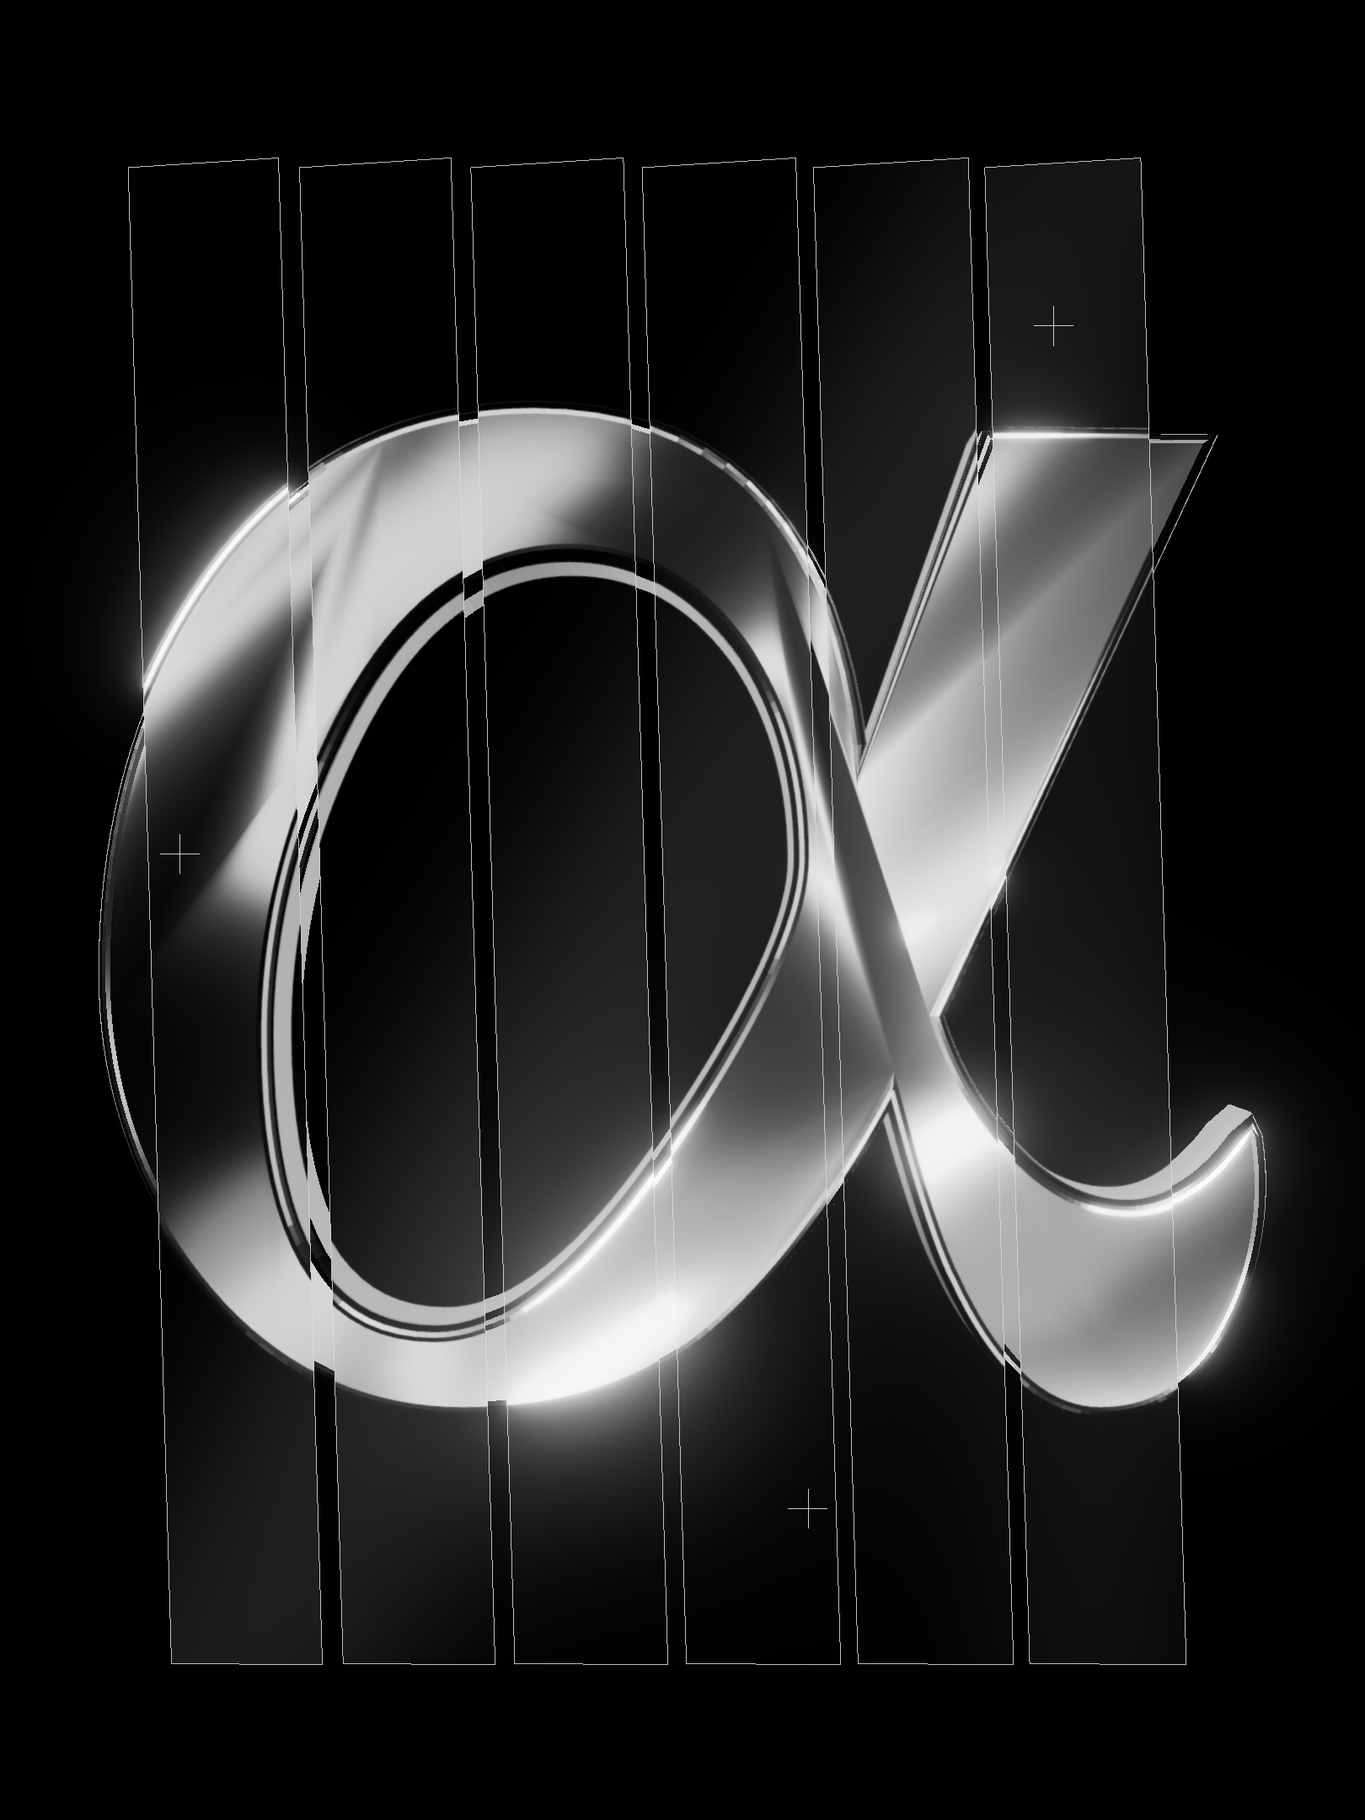
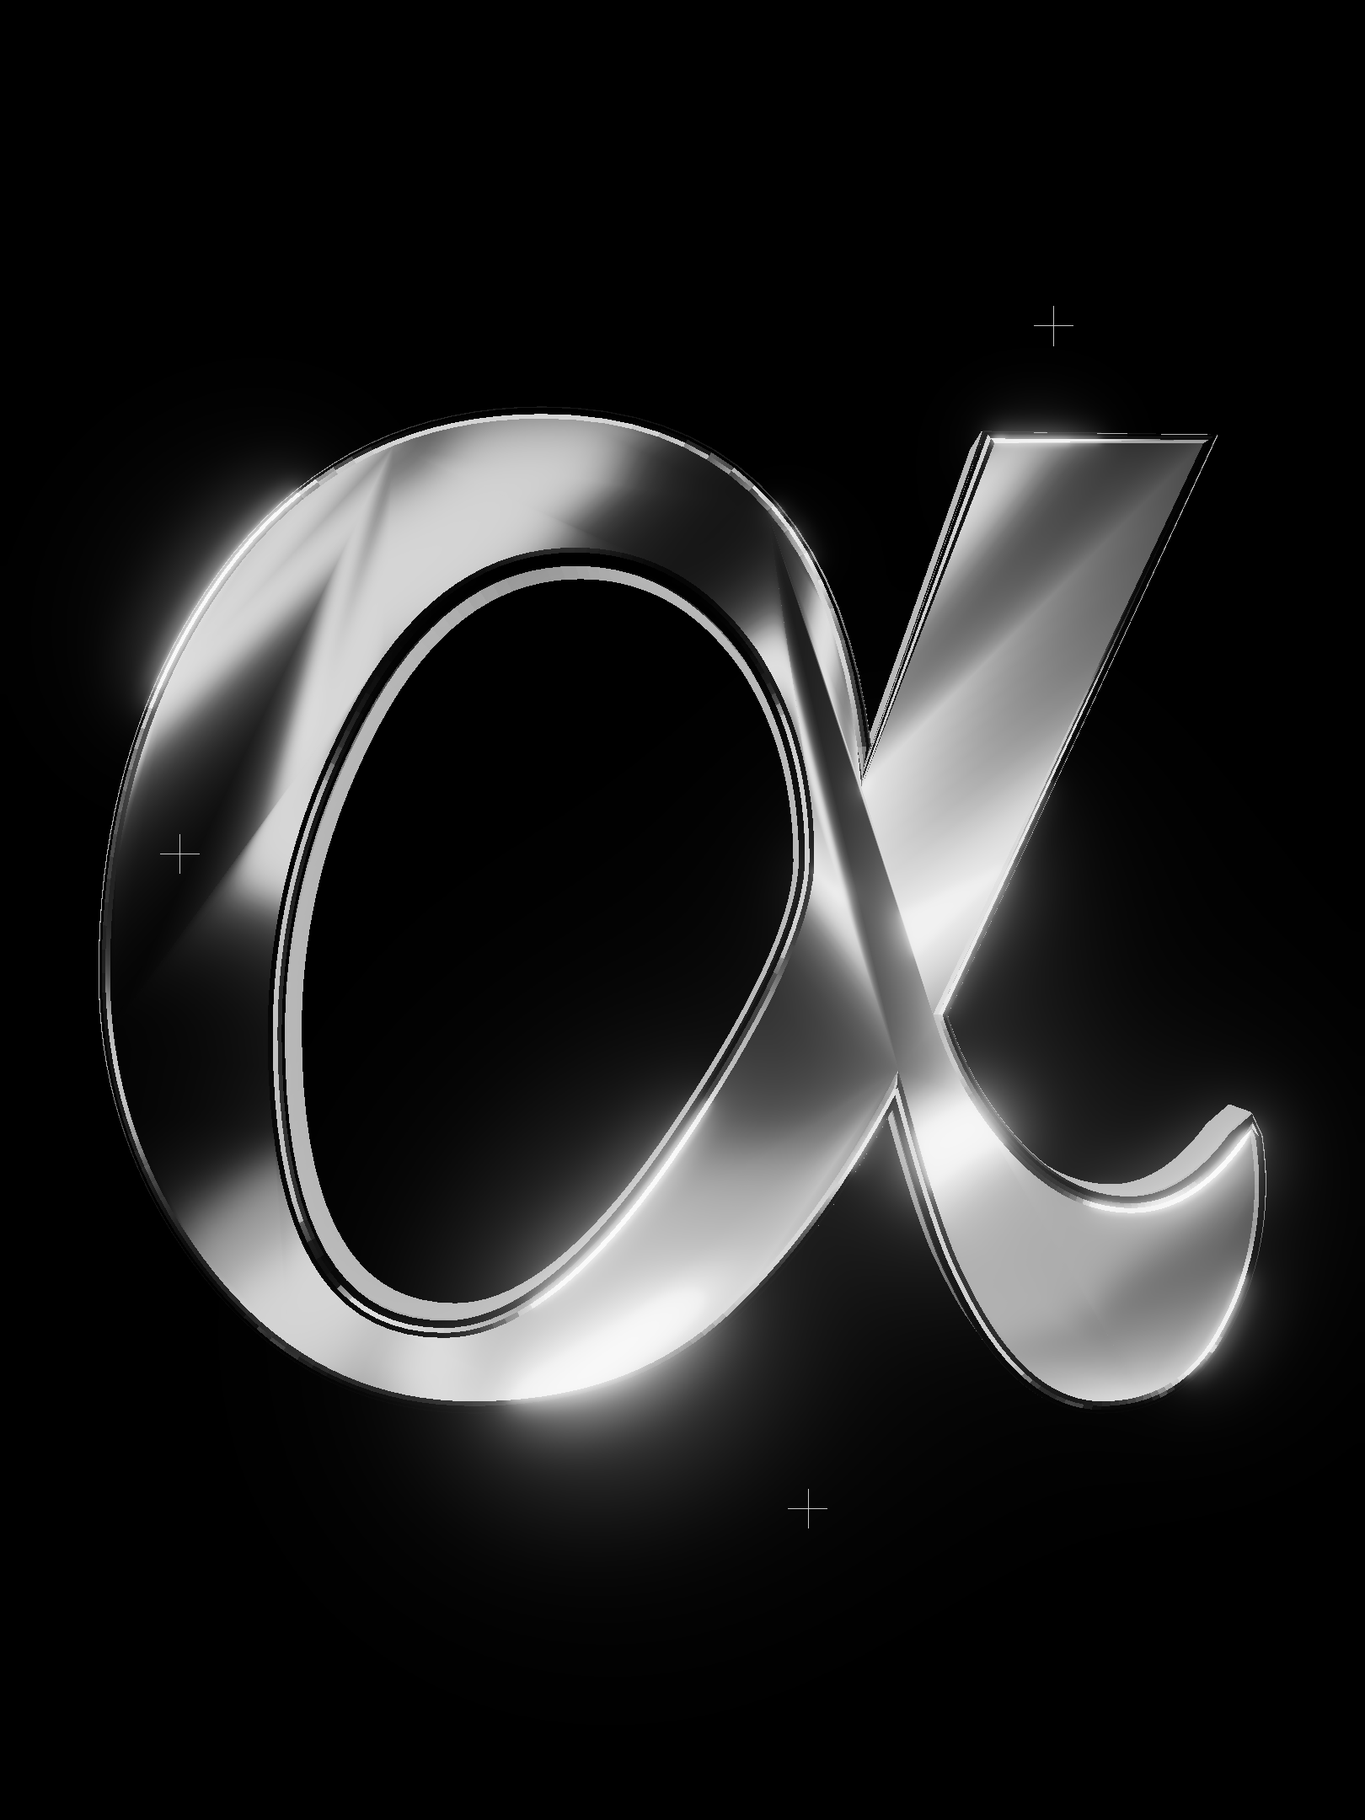
perf(stage): α only — drop the glass slats; lighter load, smoother motion
- the six glass slats over the α are removed from the stage (all stations); the hero's
  first-paint still is re-rendered from the scene without them
- three.js is imported through a named re-export module so the unused parts are
  tree-shaken: 753 KB → 565 KB (191 KB → 141 KB gzipped)
- the stage stops drawing once the camera has settled and no points are swirling (the hero
  poster view), instead of repainting an identical frame every tick
- adaptive resolution: if frames run long while scrolling, pixel density steps down
  (never the motion)
- no canvas MSAA on desktop: the scene is drawn into the bloom composer's targets, so it
  only cost memory
- the stage is built in idle time just after the hero entrance rather than on the first
  touch, so the work doesn't land on top of the first scroll
- all CSS inlined: no render-blocking stylesheet requests

Phones keep every animation (loader, hero entrance, reveals, camera tour).

diff --git a/src/components/Stage/island.ts b/src/components/Stage/island.ts
@@ -2,7 +2,7 @@ import type { BufferGeometry, Material } from 'three';
 import { gsap, ScrollTrigger, isTouch } from '@/lib/motion/core';
 import { ALPHA_PATH, ALPHA_VIEWBOX } from '@/assets/alpha/alpha-path';
 import { poseAt, STATIONS, type Stop } from './stations';
-import { POSTER, fitFov, parsePath, slatLayout } from './poster-fit';
+import { POSTER, fitFov, parsePath } from './poster-fit';
 
 /**
  * True when WebGL2 is available on real graphics hardware. Software rasterisers (SwiftShader,
@@ -53,13 +53,17 @@ export default async function stage(root: HTMLElement): Promise<() => void> {
   const canvas = root.querySelector<HTMLCanvasElement>('[data-stage-canvas]')!;
   if (!hardwareWebGL2()) return () => {};
 
-  const THREE = await import('three');
+  const THREE = await import('./three-lite');
   await yieldToMain();
   const small = window.matchMedia('(max-width: 900px), (pointer: coarse)').matches;
 
-  // phones: no MSAA and ≤1.25× pixel density (fill rate is the bottleneck there), fewer points
-  const renderer = new THREE.WebGLRenderer({ canvas, antialias: !small, alpha: false, powerPreference: 'high-performance' });
-  renderer.setPixelRatio(Math.min(window.devicePixelRatio, small ? 1.25 : 1.75));
+  // No canvas MSAA anywhere: phones can't afford it (fill rate is the bottleneck there), and on
+  // desktop the scene is drawn into the bloom composer's own targets, so canvas MSAA only cost memory.
+  // Phones also get ≤1.25× pixel density and fewer points.
+  const renderer = new THREE.WebGLRenderer({ canvas, antialias: false, alpha: false, powerPreference: 'high-performance' });
+  let pixelRatio = Math.min(window.devicePixelRatio, small ? 1.25 : 1.75);
+  const minPixelRatio = Math.min(pixelRatio, small ? 1 : 1.25);
+  renderer.setPixelRatio(pixelRatio);
   renderer.setClearColor(0x000000, 1);
   renderer.toneMapping = THREE.ACESFilmicToneMapping;
   renderer.toneMappingExposure = 1.05;
@@ -143,33 +147,6 @@ export default async function stage(root: HTMLElement): Promise<() => void> {
   const posterH = ALPHA_H / POSTER.alphaH;
   const posterW = posterH * POSTER.aspect;
   const atDepth = (z: number) => (HERO_DIST - z) / (HERO_DIST - FRONT); // keep on-screen size equal to the poster's at z
-
-  // ---- six glass slats, exactly where the poster has them ----
-  const slats = new THREE.Group();
-  const slatZ = 0.75;
-  const k = atDepth(slatZ);
-  const slatGlass = small
-    ? new THREE.MeshBasicMaterial({ color: 0xffffff, transparent: true, opacity: 0.05, depthWrite: false, side: THREE.DoubleSide })
-    : new THREE.MeshPhysicalMaterial({ color: 0xffffff, metalness: 0, roughness: 0, transmission: 1, thickness: 0.55, ior: 1.3, specularIntensity: 0.6, transparent: true, side: THREE.DoubleSide, envMapIntensity: 0.35, polygonOffset: true, polygonOffsetFactor: 1, polygonOffsetUnits: 1 });
-  const slatLineMat = new THREE.LineBasicMaterial({ color: 0xffffff, transparent: true, opacity: 0.45 });
-  const slatGeos: BufferGeometry[] = [];
-  const glassMeshes: import('three').Mesh[] = [];
-  let glassVisible = true;
-  for (const L of slatLayout(ALPHA_H)) {
-    const g = new THREE.PlaneGeometry(L.w * k, L.h * k); // planes: no side walls to go dark at an angle
-    const e = new THREE.EdgesGeometry(g);
-    slatGeos.push(g, e);
-    const group = new THREE.Group();
-    const outline = new THREE.LineSegments(e, slatLineMat);
-    outline.position.z = 0.004; // nudge the outline off the glass (no z-fighting)
-    const pane = new THREE.Mesh(g, slatGlass);
-    glassMeshes.push(pane);
-    group.add(pane, outline);
-    group.position.set(L.x * k, L.y * k, slatZ);
-    group.rotation.set(0, -0.16, 0.03); // turned, so each panel refracts — the poster's sliced α
-    slats.add(group);
-  }
-  alpha.add(slats);
 
   // ---- crosshair ticks from the poster ----
   const tickMat = new THREE.LineBasicMaterial({ color: 0xffffff, transparent: true, opacity: 0.55 });
@@ -256,6 +233,8 @@ export default async function stage(root: HTMLElement): Promise<() => void> {
   measure();
   ScrollTrigger.addEventListener('refresh', measure);
 
+  /** frames drawn since the scene last changed — once it has settled, drawing stops (see the loop) */
+  let settle = 0;
   let fovHero = 30;
   let fovTour = 38;
   const resize = () => {
@@ -271,6 +250,7 @@ export default async function stage(root: HTMLElement): Promise<() => void> {
     fovTour = fitFov(w, h, ALPHA_H, TOUR_DIST - FRONT);
     camera.fov = fovHero;
     camera.updateProjectionMatrix();
+    settle = 0;
   };
   resize();
   window.addEventListener('resize', resize);
@@ -298,6 +278,10 @@ export default async function stage(root: HTMLElement): Promise<() => void> {
   let frame = 0;
   let lastScroll = -1;
   let stillFrames = 0;
+  // adaptive resolution: if frames run long while the camera is moving, shed pixels (never the motion)
+  let slowMs = 0;
+  let slowN = 0;
+  const EPS = 1e-8;
   const tick = (t: number, dt: number) => {
     if (hidden) return;
     frame++;
@@ -321,7 +305,10 @@ export default async function stage(root: HTMLElement): Promise<() => void> {
     const lerp = first ? 1 : 0.085;
     first = false;
     camPos.lerp(goal.set(...p.cam), lerp);
+    let moving = stillFrames === 0 || camPos.distanceToSquared(goal) > EPS;
     camTarget.lerp(tmp.set(...p.target), lerp);
+    moving ||= camTarget.distanceToSquared(tmp) > EPS;
+    moving ||= Math.abs(pointer.tx - pointer.x) + Math.abs(pointer.ty - pointer.y) > 1e-3;
     pointer.x += (pointer.tx - pointer.x) * 0.05;
     pointer.y += (pointer.ty - pointer.y) * 0.05;
     // less sway in the poster view so it reads as the poster
@@ -332,9 +319,12 @@ export default async function stage(root: HTMLElement): Promise<() => void> {
     if (Math.abs(camera.fov - fov) > 0.01) { camera.fov = fov; camera.updateProjectionMatrix(); }
 
     alpha.position.lerp(tmp.set(...p.alphaPos), lerp);
-    alpha.rotation.y += (p.alphaRotY + pointer.x * 0.03 - alpha.rotation.y) * lerp;
+    moving ||= alpha.position.distanceToSquared(tmp) > EPS;
+    const turn = p.alphaRotY + pointer.x * 0.03 - alpha.rotation.y;
+    alpha.rotation.y += turn * lerp;
+    moving ||= Math.abs(turn) > 1e-4;
 
-    // the chrome stays opaque (so it occludes the wireframe and the glass can always refract it);
+    // the chrome stays opaque (so it occludes the wireframe);
     // "fading" it dims its colour and reflections instead — a dark α under bright lines in blueprint views
     const ch = p.stage * p.chrome;
     chromeMat.color.setScalar(0.92 * (0.08 + 0.92 * ch));
@@ -342,21 +332,6 @@ export default async function stage(root: HTMLElement): Promise<() => void> {
     chromeMat.clearcoat = ch;
     wireMat.opacity = p.stage * 0.72 * p.wire;
     alphaWire.visible = wireMat.opacity > 0.01;
-    slatLineMat.opacity = p.stage * 0.45 * p.slats;
-    if (small) {
-      slatGlass.opacity = p.stage * 0.05 * p.slats;
-    } else {
-      // wind the refraction down physically (thickness → 0, ior → 1) so the glass becomes optically
-      // invisible, then drop it — opacity alone doesn't fade a transmissive material
-      const glass = slatGlass as import('three').MeshPhysicalMaterial;
-      const w = Math.min(1, p.slats);
-      glass.thickness = 0.55 * w;
-      glass.ior = 1 + 0.3 * w;
-      glass.specularIntensity = 0.6 * w;
-      glassVisible = w > 0.06;
-    }
-    slats.visible = p.slats > 0.02;
-    for (const m of glassMeshes) m.visible = small || glassVisible;
     tickMat.opacity = 0.55 * p.lens;
     crowdU.uOpacity.value = p.stage * p.crowd;
     crowd.visible = p.crowd > 0.01;
@@ -364,8 +339,29 @@ export default async function stage(root: HTMLElement): Promise<() => void> {
 
     const sec = (small && stillFrames > 10 ? 2 : 1) * dt / 1000; // keep animation speed when skipping frames
     crowdU.uTime.value += sec;
+
+    // Nothing on screen changes once the camera has settled and no points are swirling (the hero
+    // poster view, mostly) — stop drawing until something moves again instead of repainting an
+    // identical frame 60 times a second.
+    settle = moving || crowd.visible ? 0 : settle + 1;
+    if (settle > 3) return;
     if (composer) composer.render();
     else renderer.render(scene, camera);
+
+    // sample frame time only while scrolling at full rate; after 45 slow-ish frames drop a step
+    if (stillFrames < 10 && dt < 250 && pixelRatio > minPixelRatio) {
+      slowMs += dt;
+      if (++slowN >= 45) {
+        if (slowMs / slowN > 22) {
+          pixelRatio = Math.max(minPixelRatio, pixelRatio * 0.85);
+          renderer.setPixelRatio(pixelRatio);
+          crowdU.uPixelRatio.value = pixelRatio;
+          resize();
+        }
+        slowMs = 0;
+        slowN = 0;
+      }
+    }
   };
   gsap.ticker.add(tick);
 
@@ -383,8 +379,8 @@ export default async function stage(root: HTMLElement): Promise<() => void> {
     window.removeEventListener('resize', resize);
     window.removeEventListener('pointermove', onMove);
     document.removeEventListener('visibilitychange', onVis);
-    [geo, edges, tickGeo, crowdGeo, grid.geometry as BufferGeometry, ...slatGeos].forEach((g) => g.dispose());
-    [chromeMat, wireMat, slatGlass, slatLineMat, tickMat, crowdMat, gridMat].forEach((m) => m.dispose());
+    [geo, edges, tickGeo, crowdGeo, grid.geometry as BufferGeometry].forEach((g) => g.dispose());
+    [chromeMat, wireMat, tickMat, crowdMat, gridMat].forEach((m) => m.dispose());
     composer?.dispose();
     envTex.dispose();
     renderer.dispose();

diff --git a/src/components/Stage/stations.ts b/src/components/Stage/stations.ts
@@ -16,38 +16,37 @@ export interface Pose {
   chrome: number;
   wire: number;
   crowd: number;
-  slats: number;
   /** 1 = the long "poster" lens, 0 = the tour lens (blended → dolly-zoom) */
   lens: number;
 }
 
 const base: Pose = {
   cam: [0, 0, 7.2], target: [0, 0, 0], alphaPos: [0, 0, 0], alphaRotY: 0,
-  stage: 1, chrome: 1, wire: 0.25, crowd: 1, slats: 0.3, lens: 0,
+  stage: 1, chrome: 1, wire: 0.25, crowd: 1, lens: 0,
 };
 const pose = (p: Partial<Pose>): Pose => ({ ...base, ...p });
 
 export const STATIONS: Record<string, Pose> = {
-  // the poster, rendered live: front-on α and slats exactly where the Figma poster has them
+  // the poster, rendered live: front-on α exactly where the Figma poster has it
   // (camera further back with a long lens → nearly flat like the poster; see the dolly-zoom in island.ts)
-  hero: pose({ cam: [0, 0, 12], wire: 0, crowd: 0, slats: 1, lens: 1 }),
+  hero: pose({ cam: [0, 0, 12], wire: 0, crowd: 0, lens: 1 }),
   // first scroll: the camera eases in (dolly-zoom) and points begin to swirl in the bowl
-  intro: pose({ cam: [0.15, 0.1, 7.6], wire: 0.1, crowd: 0.8, slats: 0.12 }),
+  intro: pose({ cam: [0.15, 0.1, 7.6], wire: 0.1, crowd: 0.8 }),
   // programme copy on the left: α steps right and turns to show its depth
-  about: pose({ cam: [0.6, 0.6, 6.6], target: [1.4, 0, 0], alphaPos: [2.8, 0, 0], alphaRotY: -0.62, chrome: 0.85, wire: 0.45, slats: 0 }),
+  about: pose({ cam: [0.6, 0.6, 6.6], target: [1.4, 0, 0], alphaPos: [2.8, 0, 0], alphaRotY: -0.62, chrome: 0.85, wire: 0.45 }),
   // pillars: low camera, blueprint mode (wireframe up, chrome down) — the "drawing board"
-  pillars: pose({ cam: [-3.6, -1.4, 4.8], target: [0, 0.4, 0], alphaRotY: 0.55, chrome: 0.18, wire: 1, slats: 0.6 }),
+  pillars: pose({ cam: [-3.6, -1.4, 4.8], target: [0, 0.4, 0], alphaRotY: 0.55, chrome: 0.18, wire: 1 }),
   // statement: fly through the bowl of the α
-  statement: pose({ cam: [-0.35, 0.05, 0.9], target: [-0.35, 0.05, -6], chrome: 0.9, wire: 0.6, crowd: 1, slats: 0 }),
+  statement: pose({ cam: [-0.35, 0.05, 0.9], target: [-0.35, 0.05, -6], chrome: 0.9, wire: 0.6, crowd: 1 }),
   speakers: pose({ cam: [-2.2, 0.8, 6.2], target: [-1, 0, 0], alphaPos: [-2.2, 0, 0], alphaRotY: 0.7, wire: 0.5 }),
   venue: pose({ cam: [0, 4.6, 5.2], target: [0, -0.4, 0], alphaRotY: -0.3, chrome: 0.5, wire: 0.8 }),
   partners: pose({ cam: [2.8, -0.6, 6], target: [0.6, 0, 0], alphaPos: [1.8, 0, 0], alphaRotY: -1.1, wire: 0.5 }),
   // team: seen from behind, off to the left
-  team: pose({ cam: [1.6, 0.9, -6.4], target: [-0.8, 0, 0], alphaPos: [-1.4, 0, 0], alphaRotY: 0.25, chrome: 0.75, wire: 0.5, slats: 0.15 }),
+  team: pose({ cam: [1.6, 0.9, -6.4], target: [-0.8, 0, 0], alphaPos: [-1.4, 0, 0], alphaRotY: 0.25, chrome: 0.75, wire: 0.5 }),
   // frames: top-down plan view, wireframe — photos float above it
-  frames: pose({ cam: [0, 8.5, 0.6], target: [0, 0, 0], alphaRotY: 0.0, chrome: 0.12, wire: 0.85, crowd: 0.6, slats: 0.3 }),
+  frames: pose({ cam: [0, 8.5, 0.6], target: [0, 0, 0], alphaRotY: 0.0, chrome: 0.12, wire: 0.85, crowd: 0.6 }),
   // contact: pull back to a quiet front view
-  contact: pose({ cam: [0, 0.2, 9.5], target: [0, 0, 0], chrome: 1, wire: 0.2, slats: 0.8 }),
+  contact: pose({ cam: [0, 0.2, 9.5], target: [0, 0, 0], chrome: 1, wire: 0.2 }),
 };
 
 export const smoothstep = (t: number): number => {
@@ -69,7 +68,6 @@ export function blend(a: Pose, b: Pose, t: number): Pose {
     chrome: mix(a.chrome, b.chrome, k),
     wire: mix(a.wire, b.wire, k),
     crowd: mix(a.crowd, b.crowd, k),
-    slats: mix(a.slats, b.slats, k),
     lens: mix(a.lens, b.lens, k),
   };
 }

diff --git a/src/components/Stage/poster-fit.ts b/src/components/Stage/poster-fit.ts
@@ -9,12 +9,6 @@ export const POSTER = {
   alphaH: 0.54,
   alphaCx: 0.508,
   alphaCy: 0.491,
-  /** six glass slats: left edge = slatX0 + i * slatStep, width slatW, vertical span slatY0..slatY1 */
-  slatX0: 0.116,
-  slatStep: 0.126,
-  slatW: 0.114,
-  slatY0: 0.08,
-  slatY1: 0.905,
 } as const;
 
 /** Poster box height in px for a viewport — mirrors the hero CSS (115svh landscape, cover on portrait). */
@@ -30,22 +24,6 @@ export function fitFov(vw: number, vh: number, alphaWorldH: number, distance: nu
   const fraction = (POSTER.alphaH * posterHeightPx(vw, vh)) / vh;
   const visibleH = alphaWorldH / fraction;
   return (2 * Math.atan(visibleH / (2 * distance)) * 180) / Math.PI;
-}
-
-/** Slat centres / sizes in world units (α centred at the origin, height alphaWorldH). */
-export function slatLayout(alphaWorldH: number) {
-  const H = alphaWorldH / POSTER.alphaH; // poster height in world units
-  const W = H * POSTER.aspect;
-  return Array.from({ length: 6 }, (_, i) => {
-    const cx = POSTER.slatX0 + i * POSTER.slatStep + POSTER.slatW / 2;
-    const cy = (POSTER.slatY0 + POSTER.slatY1) / 2;
-    return {
-      x: (cx - POSTER.alphaCx) * W,
-      y: -(cy - POSTER.alphaCy) * H,
-      w: POSTER.slatW * W,
-      h: (POSTER.slatY1 - POSTER.slatY0) * H,
-    };
-  });
 }
 
 /** Parse the glyph path (M/L/H/V/Q/C/Z, absolute) into drawing commands. */

diff --git a/tests/unit/poster-fit.test.ts b/tests/unit/poster-fit.test.ts
@@ -1,5 +1,5 @@
 import { describe, expect, it } from 'vitest';
-import { POSTER, fitFov, parsePath, posterHeightPx, slatLayout } from '@/components/Stage/poster-fit';
+import { POSTER, fitFov, parsePath, posterHeightPx } from '@/components/Stage/poster-fit';
 import { ALPHA_PATH } from '@/assets/alpha/alpha-path';
 
 describe('poster fit', () => {
@@ -13,14 +13,6 @@ describe('poster fit', () => {
     const fov = fitFov(1440, 900, 3.1, 7.2);
     const visible = 2 * 7.2 * Math.tan(((fov / 2) * Math.PI) / 180);
     expect(3.1 / visible).toBeCloseTo((POSTER.alphaH * 1035) / 900, 3);
-  });
-
-  it('lays out six evenly stepped slats around the α', () => {
-    const s = slatLayout(3.1);
-    expect(s).toHaveLength(6);
-    expect(s[1].x - s[0].x).toBeCloseTo(s[5].x - s[4].x);
-    expect(s[0].x).toBeLessThan(0);
-    expect(s[5].x).toBeGreaterThan(0);
   });
 
   it('parses the glyph path into absolute commands', () => {

diff --git a/src/components/Stage/three-lite.ts b/src/components/Stage/three-lite.ts
@@ -1,0 +1,12 @@
+/**
+ * Only the parts of three.js the α stage uses, re-exported by name so the bundler can tree-shake the
+ * rest. The stage loads this module lazily (`await import('./three-lite')`) — add a class here when
+ * island.ts starts using it.
+ */
+export {
+  ACESFilmicToneMapping, AdditiveBlending, BufferAttribute, BufferGeometry, Color, DoubleSide,
+  EdgesGeometry, ExtrudeGeometry, Float32BufferAttribute, Fog, GridHelper, Group, LineBasicMaterial,
+  LineSegments, Mesh, MeshBasicMaterial, MeshPhysicalMaterial, PMREMGenerator, PerspectiveCamera,
+  PlaneGeometry, Points, SRGBColorSpace, Scene, ShaderMaterial, ShapePath, Vector2, Vector3,
+  WebGLRenderer,
+} from 'three';

diff --git a/README.md b/README.md
@@ -25,7 +25,7 @@ npm run build      # production build to dist/
 ## Experience
 - **α stage** (`src/components/Stage/`): a fixed three.js scene behind the whole page that **opens as the poster**.
   At the hero station it reproduces the Figma composition exactly — the α (GFS Didot outline, extruded chrome with
-  pillowed faces), the six refracting glass slats and the crosshair ticks at their measured poster positions
+  pillowed faces) and the crosshair ticks at their measured poster positions
   (`poster-fit.ts`) on plain black — no crowd. The hero's first-paint image is a still rendered from this same scene
   (`scripts/capture-hero.mjs`); once the live scene is built (first interaction, or after 6 s) the still dissolves into
   it in place, pixel-identical, so scrolling is one continuous camera move on the same object: a dolly-zoom from the
@@ -90,7 +90,7 @@ npm run e2e:launched               # Playwright suite for the launched layout
 - Update `site.url` in `src/content/site.ts` and `site` in `astro.config.mjs` once the final domain is known
   (canonical URL, Open Graph image, sitemap and JSON-LD all derive from it).
 - `public/og.jpg` is generated from the poster with `node scripts/og-image.mjs`.
-- If the α/slat layout changes: update `src/components/Stage/poster-fit.ts`, then with `npm run dev` running
+- If the α layout changes: update `src/components/Stage/poster-fit.ts`, then with `npm run dev` running
   re-render the hero still with `node scripts/capture-hero.mjs` (writes `src/assets/figma/alpha-render.png`).
 
 ## Performance
